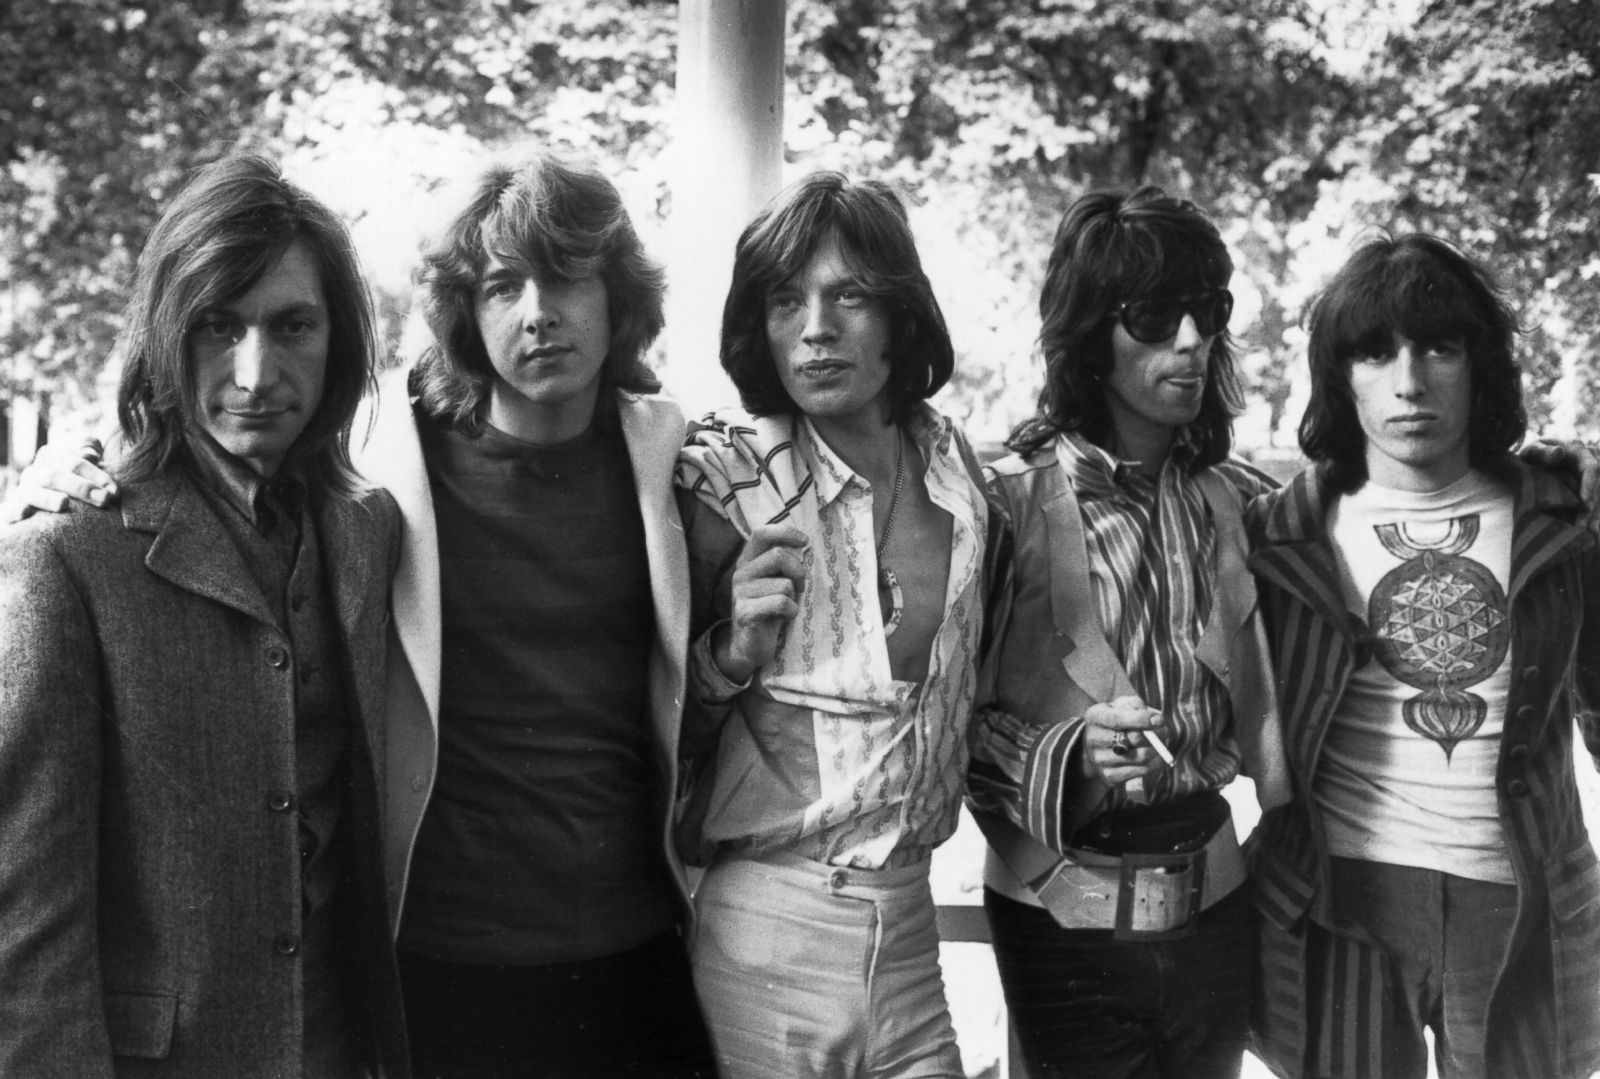
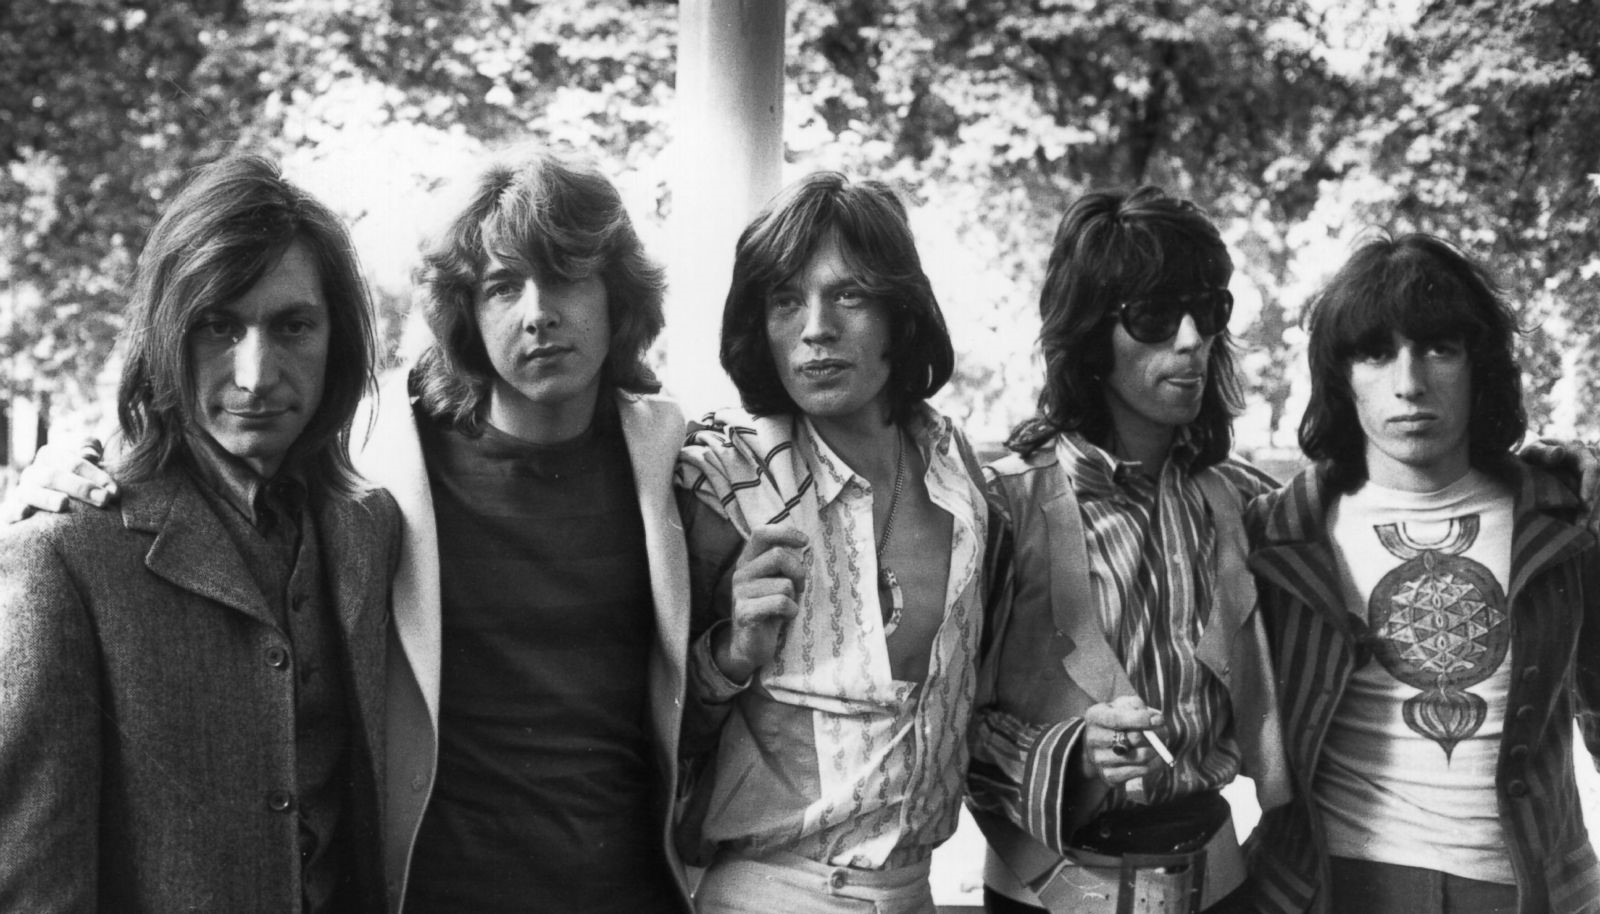
vault backup: 2024-06-12 22:17:35

diff --git a/Religion/Folien.md b/Religion/Folien.md
@@ -10,7 +10,7 @@ Robert Johnson
 Aleister Crowley
 
 ---
-![[1 HFOL4MGtKHxngK7FQF7CaQ.webp]]
+![[1 HFOL4MGtKHxngK7FQF7CaQ.jpg]]
 Sgt. Peppers Lonely Heartsclub Band
 
 ---
